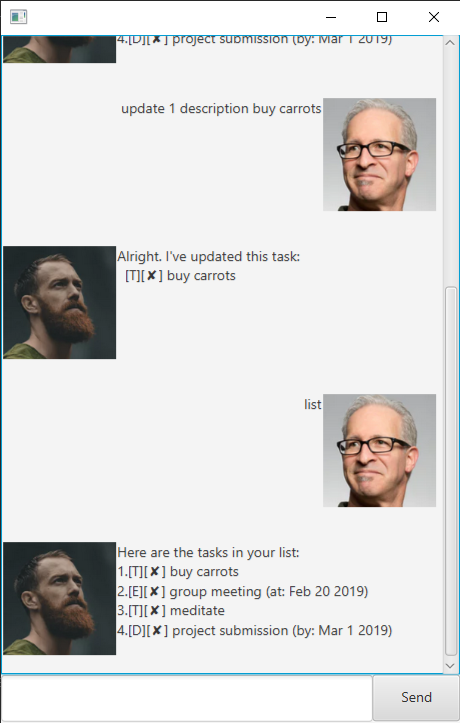
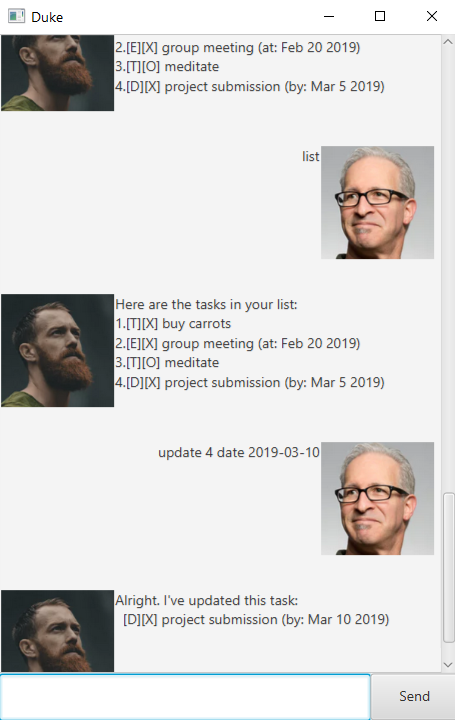
Updated product website

Changed region(s): [[0.0, 0.0, 1.0, 1.0], [0.9231, 0.0, 0.9538, 0.0306]]

diff --git a/src/main/java/Task.java b/src/main/java/Task.java
@@ -23,18 +23,18 @@ public class Task {
 
     public String toStore() {
         if (isDone) {
-            return "[] " + content;
+            return "[O] " + content;
         } else {
-            return "[\u2718] " + content;
+            return "[X] " + content;
         }
     }
 
     @Override
     public String toString() {
         if (isDone) {
-            return "[\u2713] " + content;
+            return "[O] " + content;
         } else {
-            return "[\u2718] " + content;
+            return "[X] " + content;
         }
     }
 }

diff --git a/src/main/java/Storage.java b/src/main/java/Storage.java
@@ -91,7 +91,7 @@ public class Storage {
                     break;
                 }
 
-                if (state.equals("\u2713")) {
+                if (state.equals("O")) {
                     taskList.markDone(index);
                 }
 

diff --git a/docs/README.md b/docs/README.md
@@ -1,4 +1,6 @@
 # User Guide
+### Ui
+![Ui](./Ui.png)
 
 ## Features 
 
@@ -8,33 +10,11 @@ Adds a task to current list
 
 Example of usage: 
 
-`todo sleep`
+`todo sleep`, `event wedding /at 2019-05-15`, `deadline submission /by 2019-04-22`
 
-Expected outcome:
+Expected outcome: 
 
-`Got it. I've added this task:`<br/>
-`[T][✘] sleep`<br/>
-`Now you have 1 task(s) in the list.`
-
-Example of usage: 
-
-`event wedding /at 2019-05-15`
-
-Expected outcome:
-
-`Got it. I've added this task:`<br/>
-`[E][✘] wedding (at: May 15 2019)`<br/>
-`Now you have 2 task(s) in the list.`
-
-Example of usage: 
-
-`event submission /by 2019-04-22`
-
-Expected outcome:
-
-`Got it. I've added this task:`<br/>
-`[D][✘] submission (at: Apr 22 2019)`<br/>
-`Now you have 3 task(s) in the list.`
+![add1](./add1.png) ![add2](./add2.png)
 
 ### Listing out Tasks: `list`
 
@@ -46,9 +26,7 @@ Example of usage:
 
 Expected outcome:
 
-`1.[T][✘] sleep`<br/>
-`2.[E][✘] wedding (at: May 15 2019)`<br/>
-`3.[D][✘] submission (by: Apr 22 2019)`
+![list](./list.png)
 
 ### Marking completed tasks: `done`
 
@@ -60,8 +38,8 @@ Example of usage:
 
 Expected outcome:
 
-`Nice! I've marked this task as done:`<br/>
-`[T][✓] sleep`
+![done](./done.png)
+
 
 ### Deleting tasks: `delete`
 
@@ -73,8 +51,7 @@ Example of usage:
 
 Expected outcome:
 
-`Noted. I've removed this task`<br/>
-`[D][✘] submission (by: Apr 22 2019)`
+![delete](./delete.png)
 
 ### Searching for tasks: `find`
 
@@ -86,8 +63,7 @@ Example of usage:
 
 Expected outcome:
 
-`Here are the matching tasks in your list`<br/>
-`1.[T][✓] sleep`
+![find](./find.png)
 
 ### Updating tasks: `update`
 
@@ -95,20 +71,8 @@ Update a task in the current list.
 
 Example of usage: 
 
-`update 2 description Mary's wedding`
+`update 2 description Mary's wedding`, `update 2 date 2019-06-07`
 
 Expected outcome:
 
-`Alright. I've updated this task:`<br/>
-`[E][✘] Mary's wedding (by: Apr 22 2019)`
-
-Example of usage: 
-
-`update 2 date 2019-06-07`
-
-Expected outcome:
-
-`Alright. I've updated this task:`<br/>
-`[E][✘] Mary's wedding (by: Jun 7 2019)`
-
-![example](./Ui.png)
+![update1](./update1.png) ![update2](./update2.png)
